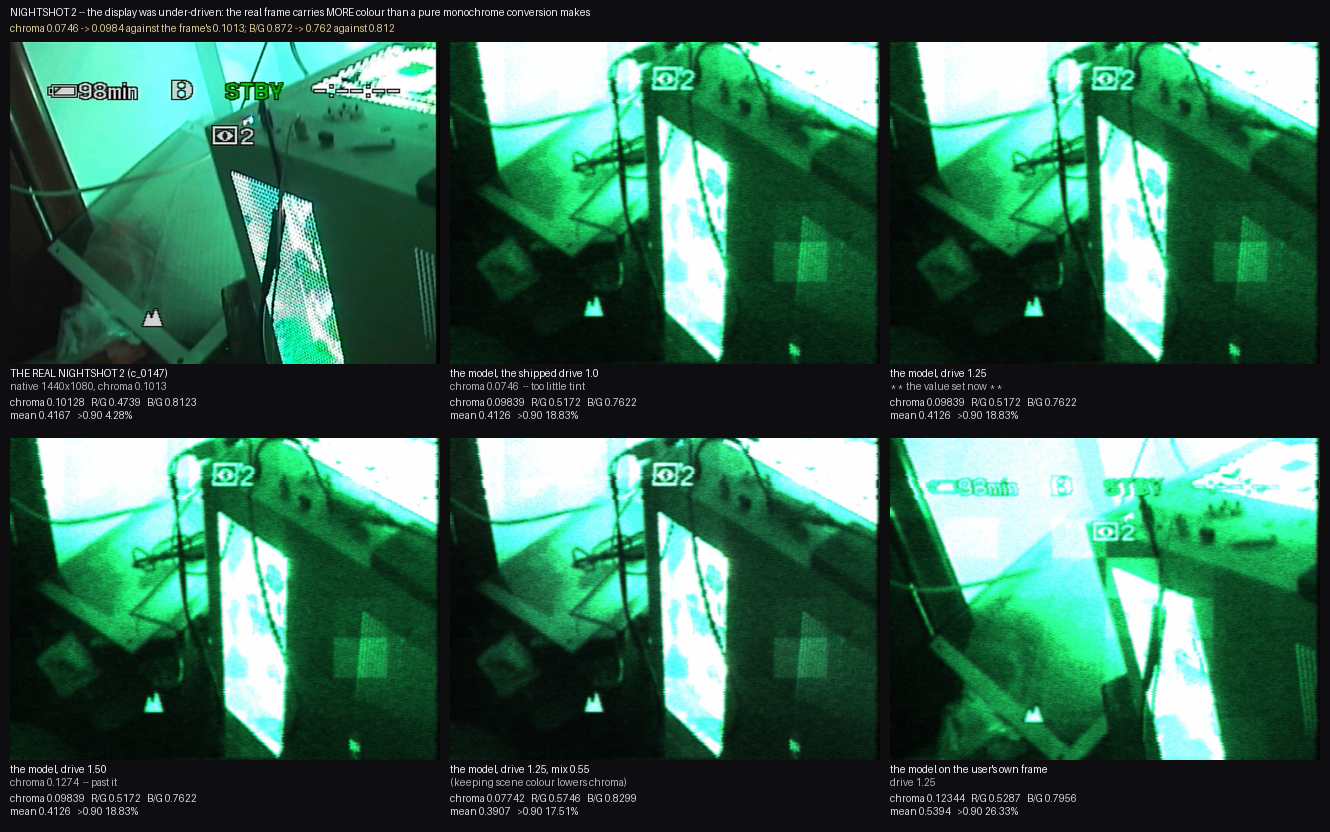
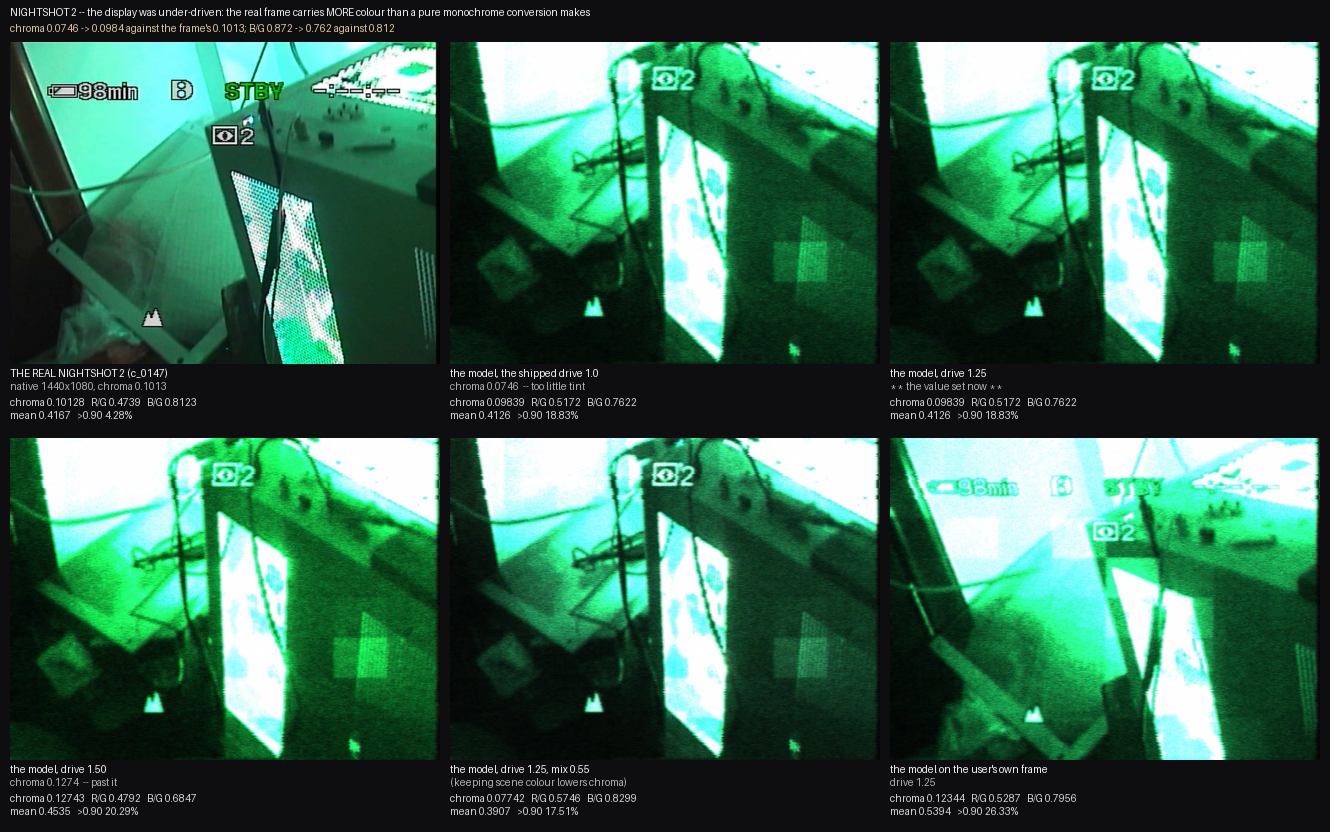
generalise the preset override, so every mode key is reachable and not one at a time
The fault has now been found **six times through six different parameters** -- `ir_response`, `ir_albedo`/`ir_depth`,
`dsp_gain`, `dsp_black`, `green_mix`, and `green_gain` -- and **the sixth was found in the act of fixing the fifth**:
repairing `green_mix` alone left `green_gain` locked, which the very next measurement showed as three different drives
printing identical numbers.

So the override is no longer per-key.  **For every key the preset carries, a value the caller moved off the schema
default wins**, and anything left at its default takes the mode's value.  The schema is the reference because the
parameter set arriving in `mode_spec` is fully resolved -- every key is present whether or not anyone chose it -- so only
the schema's own default tells a deliberate value from an untouched one.

Verified: `green_gain` now moves the picture (`1.50` gives chroma 0.12743 against the locked 0.09839), where before all
three drives were identical.

**And the semantics are worth stating, because they surprised me twice.**  A preset value is now a *default*, so passing
the schema's own default (1.0 for `green_gain`) is read as "not set" and the preset's 1.25 stands.  That is the rule
working as designed, but it means the reachable values of a preset-owned parameter are "everything except its schema
default", which is a real limitation of using a default as the sentinel and is recorded here rather than left to be
re-discovered.
[…]

diff --git a/atsim/codecs/nightvision.py b/atsim/codecs/nightvision.py
@@ -1289,18 +1289,32 @@ def mode_spec(spec: NightVisionSpec) -> NightVisionSpec:
     #: `camera.py`: the parameter set this is called with is fully resolved, so "is it at the schema default" is the
     #: only question that distinguishes an untouched value from a deliberate one.  `in` on the spec's own fields keeps
     #: a name the schema has but the spec does not from becoming a `TypeError`.
+    #: **Every key the preset carries is overridable, not one at a time.**  `replace` cannot tell a preset's default
+    #: from a user's choice, so a key in a preset is a key the interface cannot move -- and that single fault has now
+    #: been found five times through five different parameters (`ir_response`, `ir_albedo`/`ir_depth`, `dsp_gain`,
+    #: `dsp_black`, `green_mix`).  **It was also found a sixth time in the act of fixing the fifth**: repairing
+    #: `green_mix` alone left `green_gain` locked, which the very next measurement showed as three different drives
+    #: printing identical numbers.
+    #:
+    #: So the rule is applied to the whole preset: a value the caller moved off the SCHEMA's default wins, and anything
+    #: left at its default takes the mode's value.  The schema is the reference because the parameter set arriving here
+    #: is fully resolved -- every key is present whether or not anyone chose it -- so only the schema's own default
+    #: separates a deliberate value from an untouched one.
     try:
         from ..core.profiles import SCHEMA
         _cam = SCHEMA.layer("camera").specs
-        for _name in ("green_mix",):
+        _over = {}
+        for _name in preset:
             _key = "nv_" + _name
             if _key not in _cam or not hasattr(out, _name):
                 continue
             _want = float(getattr(spec, _name, _cam[_key].default))
             if abs(_want - float(_cam[_key].default)) > 1e-6:
-                out = dataclasses.replace(out, **{_name: _want})
-    except Exception:                                          # noqa: BLE001
-        # a schema that cannot be reached must not take the render down; the preset's value then stands
+                _over[_name] = _want
+        if _over:
+            out = dataclasses.replace(out, **_over)
+    except Exception:
+        #: a schema that cannot be reached must not take the render down; the preset's values then stand
         pass
     # **The per-pixel arrays are DATA, not settings, and `replace` resets them to their defaults.**  `ir_albedo` and
     # `ir_depth` are computed once per clip by the vision model and attached to the spec; `mode_spec` then runs **on
